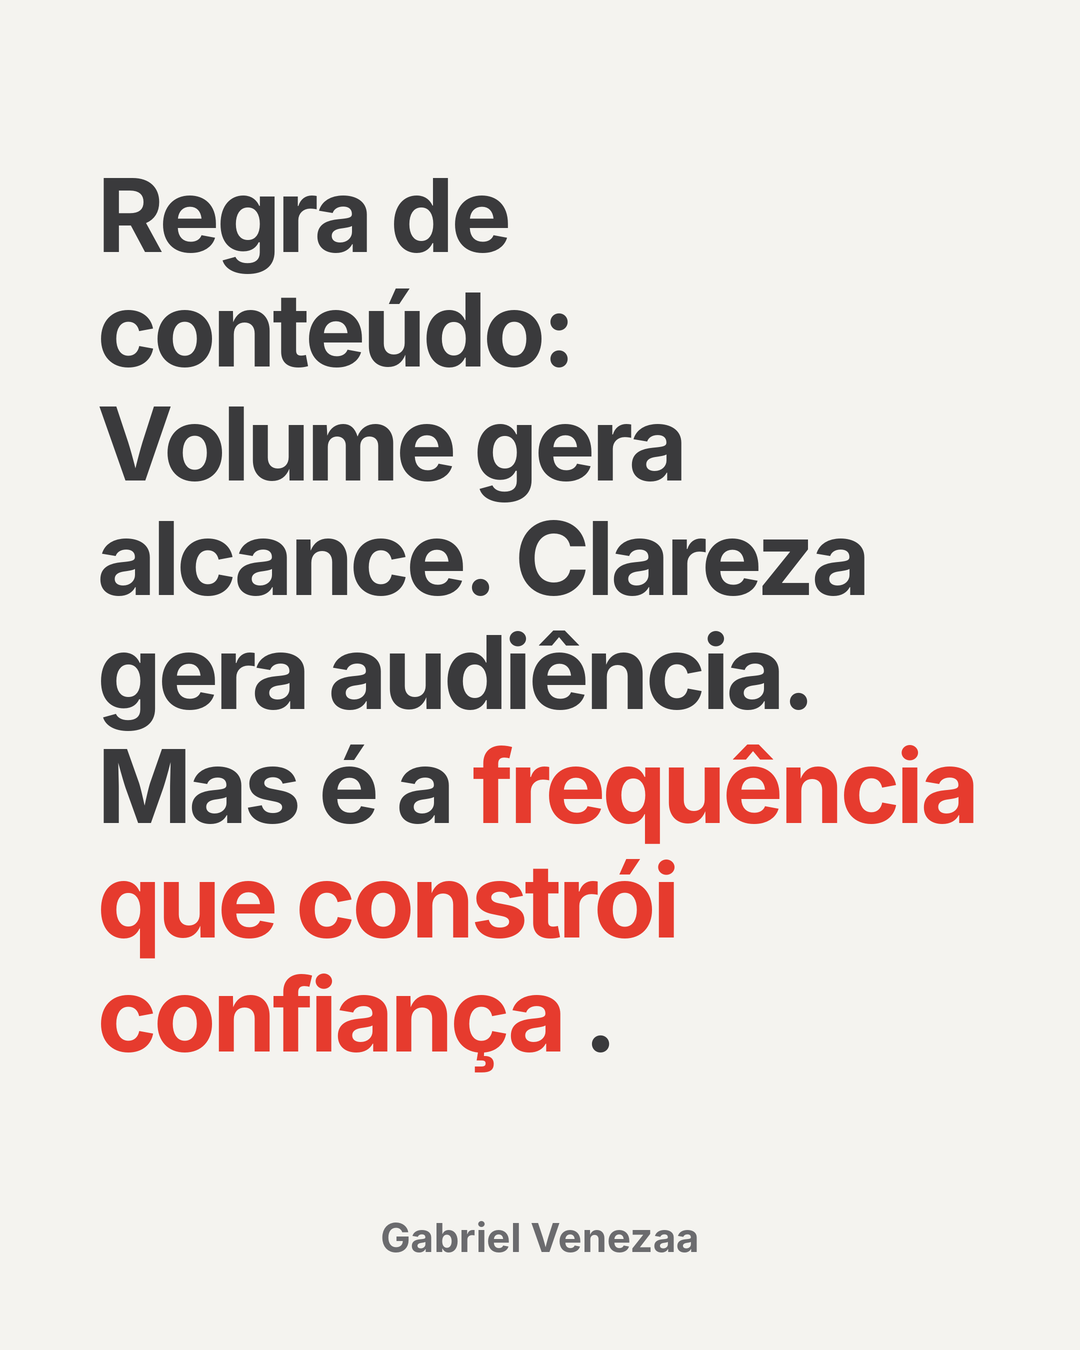
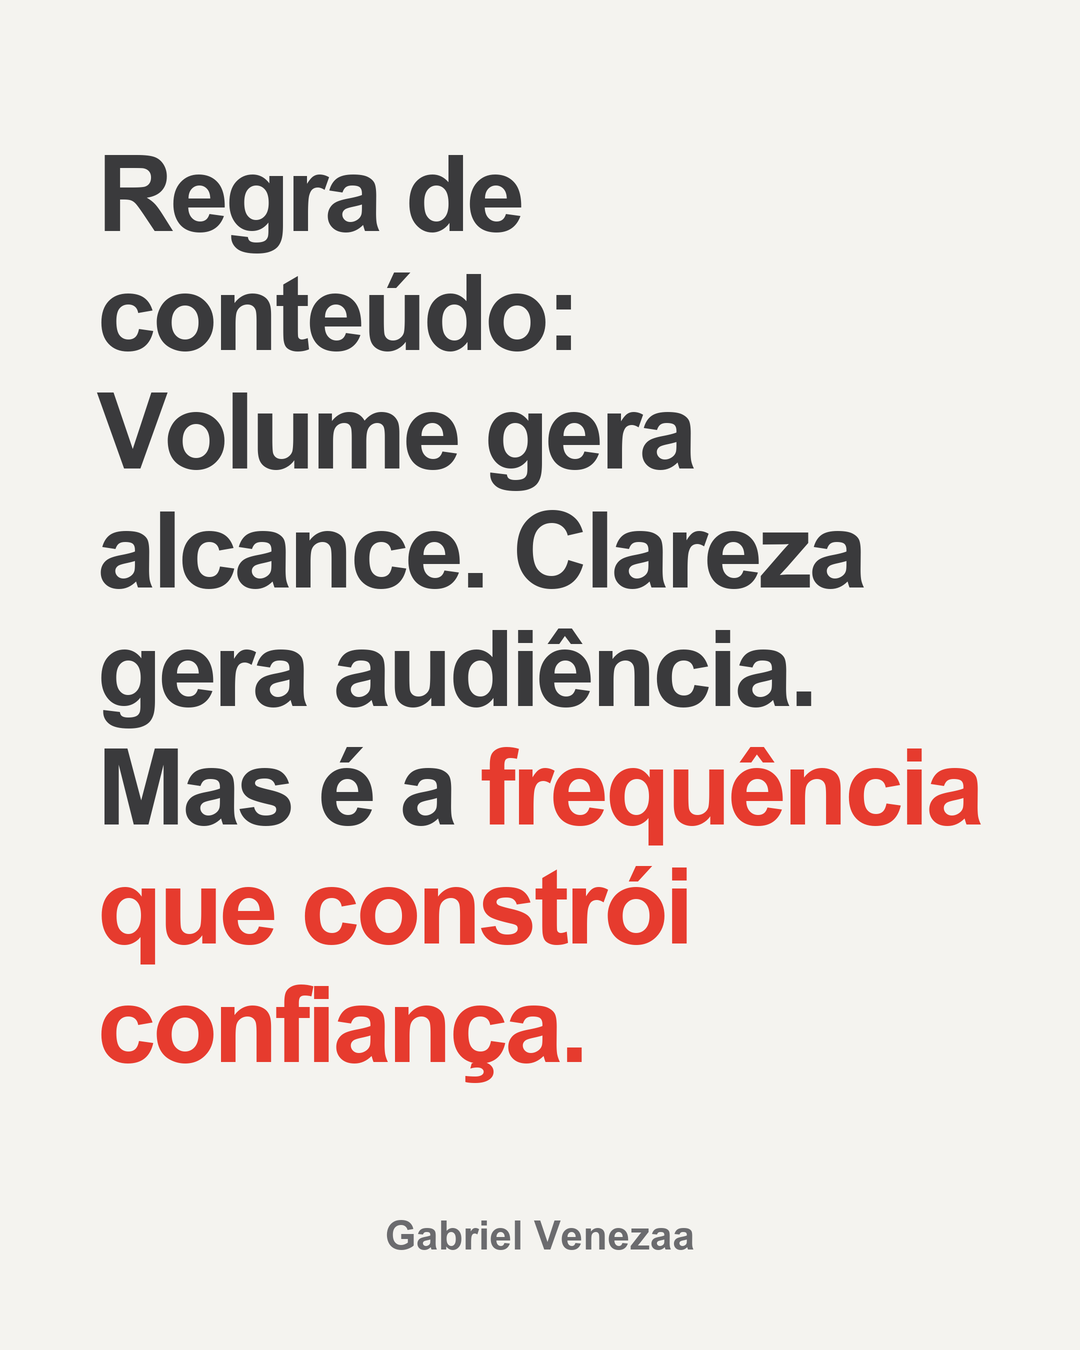
Corrige pontuação após destaque e re-renderiza posts

diff --git a/render.py b/render.py
@@ -80,12 +80,23 @@ def parse(texto: str) -> List[List[Palavra]]:
     destaque = False
     for linha in texto.strip().split("\n"):
         palavras: List[Palavra] = []
+        colar = False  # próximo pedaço começa colado no anterior (sem espaço)
         for pedaco in re.split(r"(\*)", linha):
             if pedaco == "*":
                 destaque = not destaque
-            else:
-                for w in pedaco.split():
-                    palavras.append((w, destaque))
+                continue
+            if not pedaco:
+                continue
+            tokens = pedaco.split()
+            if not tokens:
+                colar = False
+                continue
+            if colar and palavras and not pedaco[0].isspace():
+                palavras[-1] = (palavras[-1][0] + tokens[0], palavras[-1][1])  # pontuação cola na palavra anterior
+                tokens = tokens[1:]
+            for w in tokens:
+                palavras.append((w, destaque))
+            colar = not pedaco[-1].isspace()
         paragrafos.append(palavras)
     return paragrafos
 
